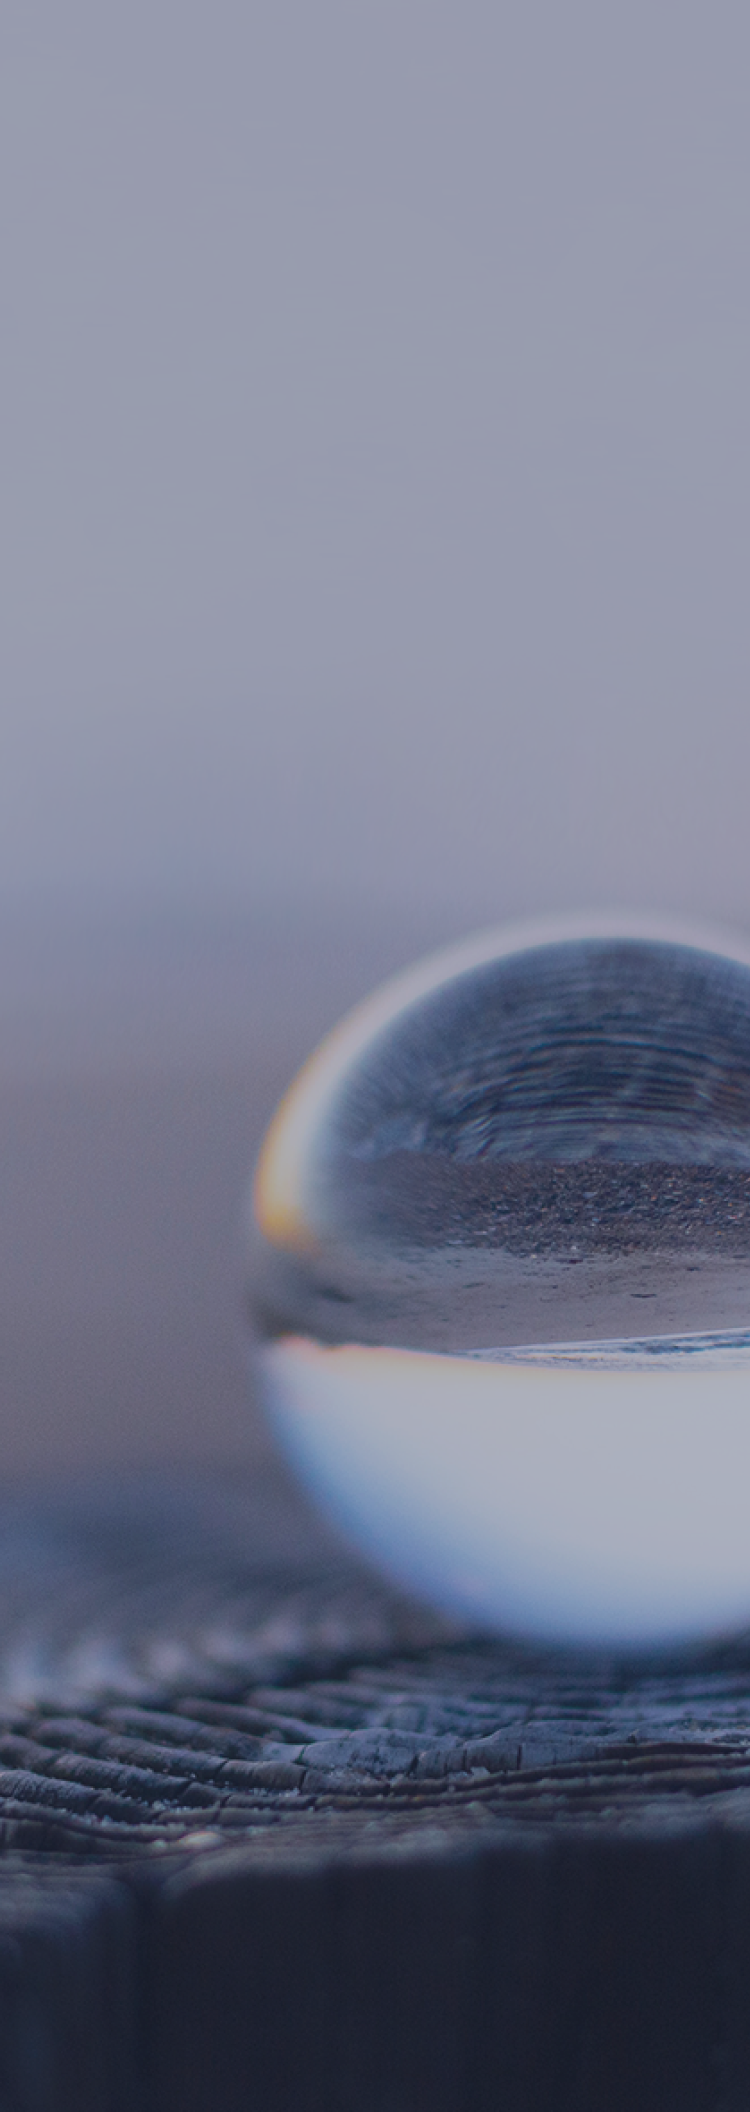
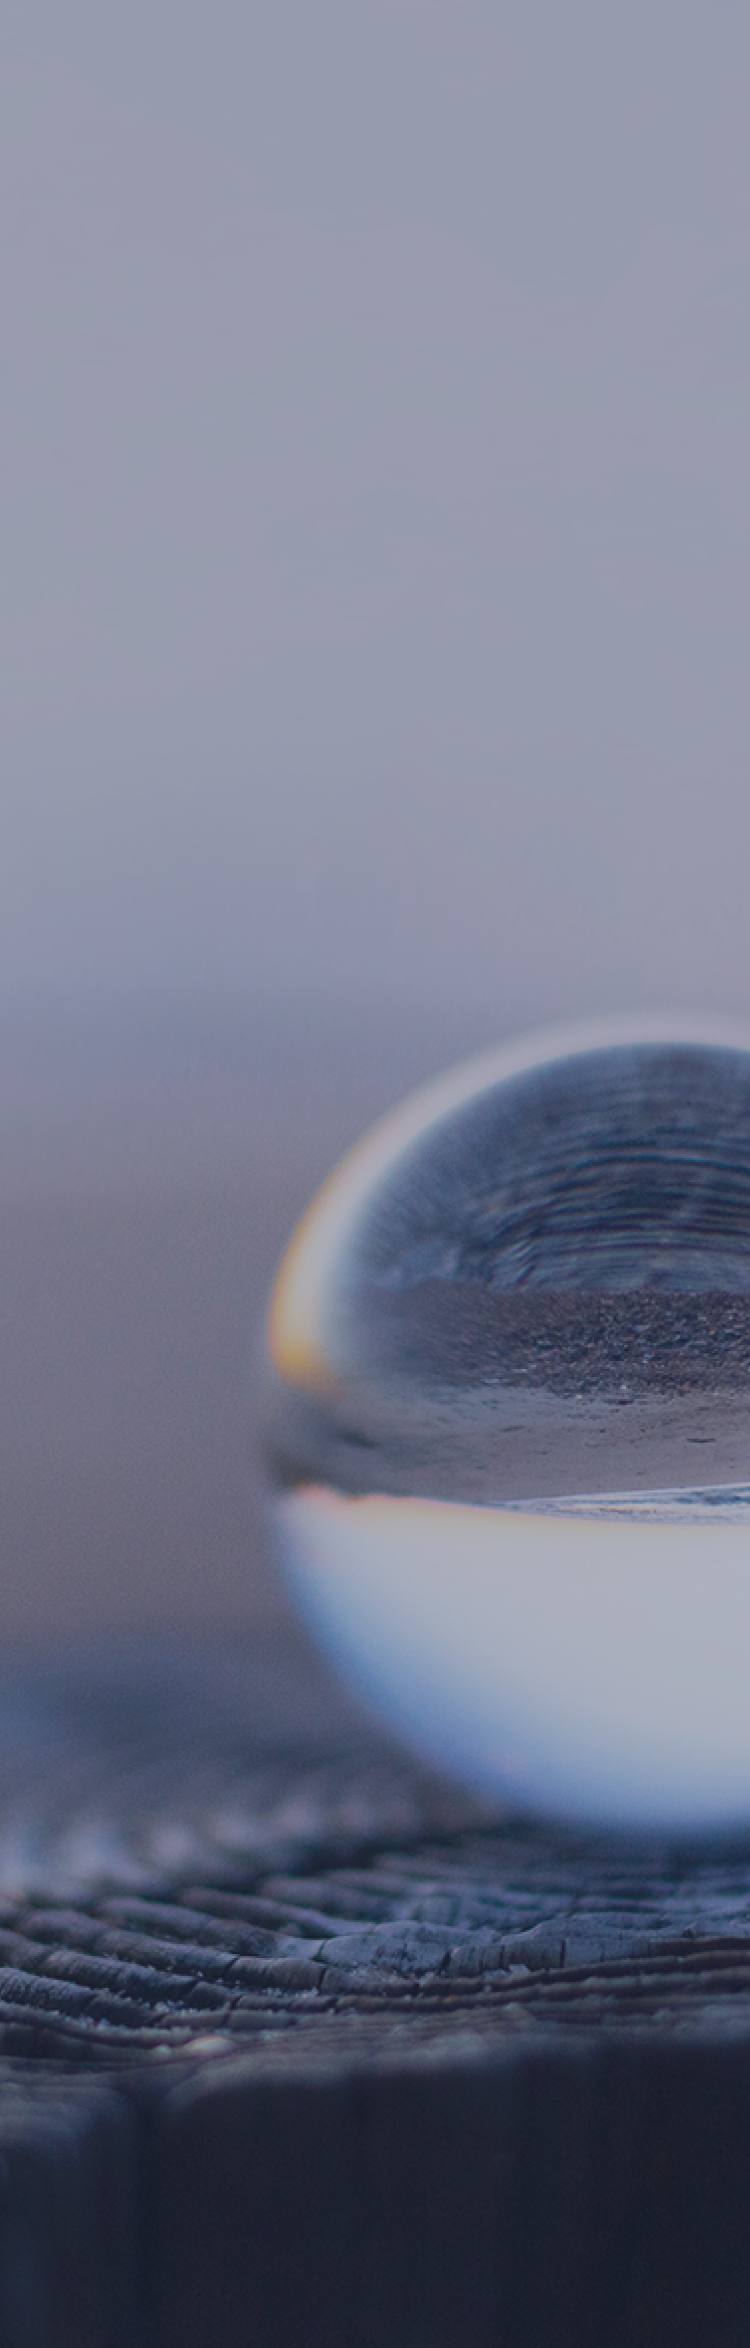
* mobile ko / 수정 요청 사항 적용

diff --git a/mobile-en/src/scss/pages/macrogen.scss b/mobile-en/src/scss/pages/macrogen.scss
@@ -3210,4 +3210,9 @@
   .macrogen.global-macrogen .section-map-detail .box > .detail .item .info ul li span:nth-child(2) {
     width: calc(100% - 182px);
   }
+
+  /* esg 윤리경영 */
+  .macrogen.ethical-management .section-bg {
+    height: 1174px;
+  }
 }
